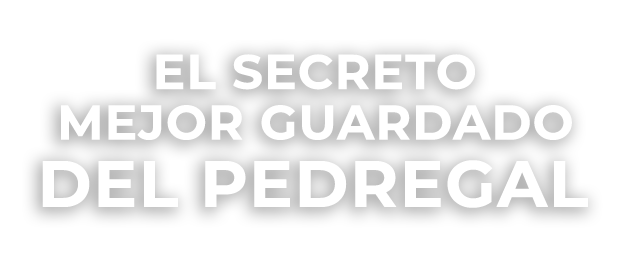
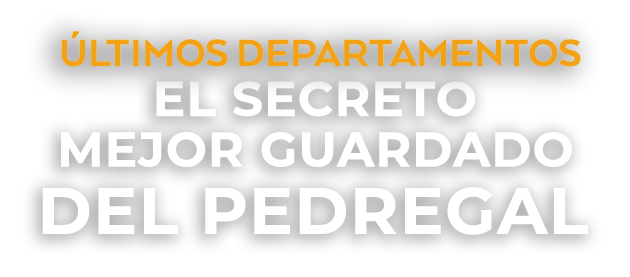
fix: Precio desde y Últimos depas

diff --git a/index.html b/index.html
@@ -429,9 +429,8 @@ src="https://www.facebook.com/tr?id=485216126066048&ev=PageView&noscript=1"
                 <div class="row margin-9-rem-bottom md-margin-4-rem-bottom sm-margin-5-rem-bottom">
 
                     <div class="col-12 col-lg-6 col-md-6 md-margin-60px-bottom sm-margin-20px-bottom wow animate__fadeIn" data-wow-delay="0.1s">
-
+                      <h4 style="color: #c89965; font-weight: bold;">Últimos departamentos desde $19,980,000 <sup>MXN</sup></h4>
                         <span class="alt-font font-weight-600 text-medium text-yellow-ochre text-uppercase d-block margin-20px-bottom letter-spacing-1px">Cobalto 66</span>
-
                         <h5 class="alt-font font-weight-500 text-white mb-0">Es el concepto premium de Lomas de Pedregal.</h5>
 
                     </div>
@@ -490,7 +489,8 @@ src="https://www.facebook.com/tr?id=485216126066048&ev=PageView&noscript=1"
 
                         <span class="alt-font font-weight-600 text-medium text-yellow-ochre text-uppercase letter-spacing-1px d-block margin-10px-bottom">DEPARTAMENTOS</span>
 
-                        <h5 class="alt-font font-weight-500 text-white letter-spacing-minus-1px">ÚLTIMOS DEPARTAMENTOS DESDE 300 m<sup>2</sup></h5>
+                        <h5 class="alt-font font-weight-500 text-white letter-spacing-minus-1px mb-0" style="line-height: 1.25rem;">ÚLTIMOS DEPARTAMENTOS DESDE 300 m<sup>2</sup></h5>
+                        <h6 style="color: #c89965; line-height: 5rem;"> desde $19,980,000 <sup>MXN</sup></h6>
 
 						<h6 class="alt-font font-weight-500 text-yellow-ochre letter-spacing-minus-1px"></h6>
 
@@ -891,12 +891,12 @@ src="https://www.facebook.com/tr?id=485216126066048&ev=PageView&noscript=1"
                         <div class="col-12">
 
                             <!-- start contact form -->
-		<script charset="utf-8" type="text/javascript" src="//js.hsforms.net/forms/embed/v2.js"></script>
+<script charset="utf-8" type="text/javascript" src="//js.hsforms.net/forms/embed/v2.js"></script>
 <script>
   hbspt.forms.create({
     region: "na1",
-    portalId: "23790182",
-    formId: "276280b9-7759-487f-9ab1-8e2714a0b0b5"
+    portalId: "21634170",
+    formId: "d53b896b-d613-4ea4-ae64-1af3d0bd22b9"
   });
 </script>
                             <!-- end contact form -->
